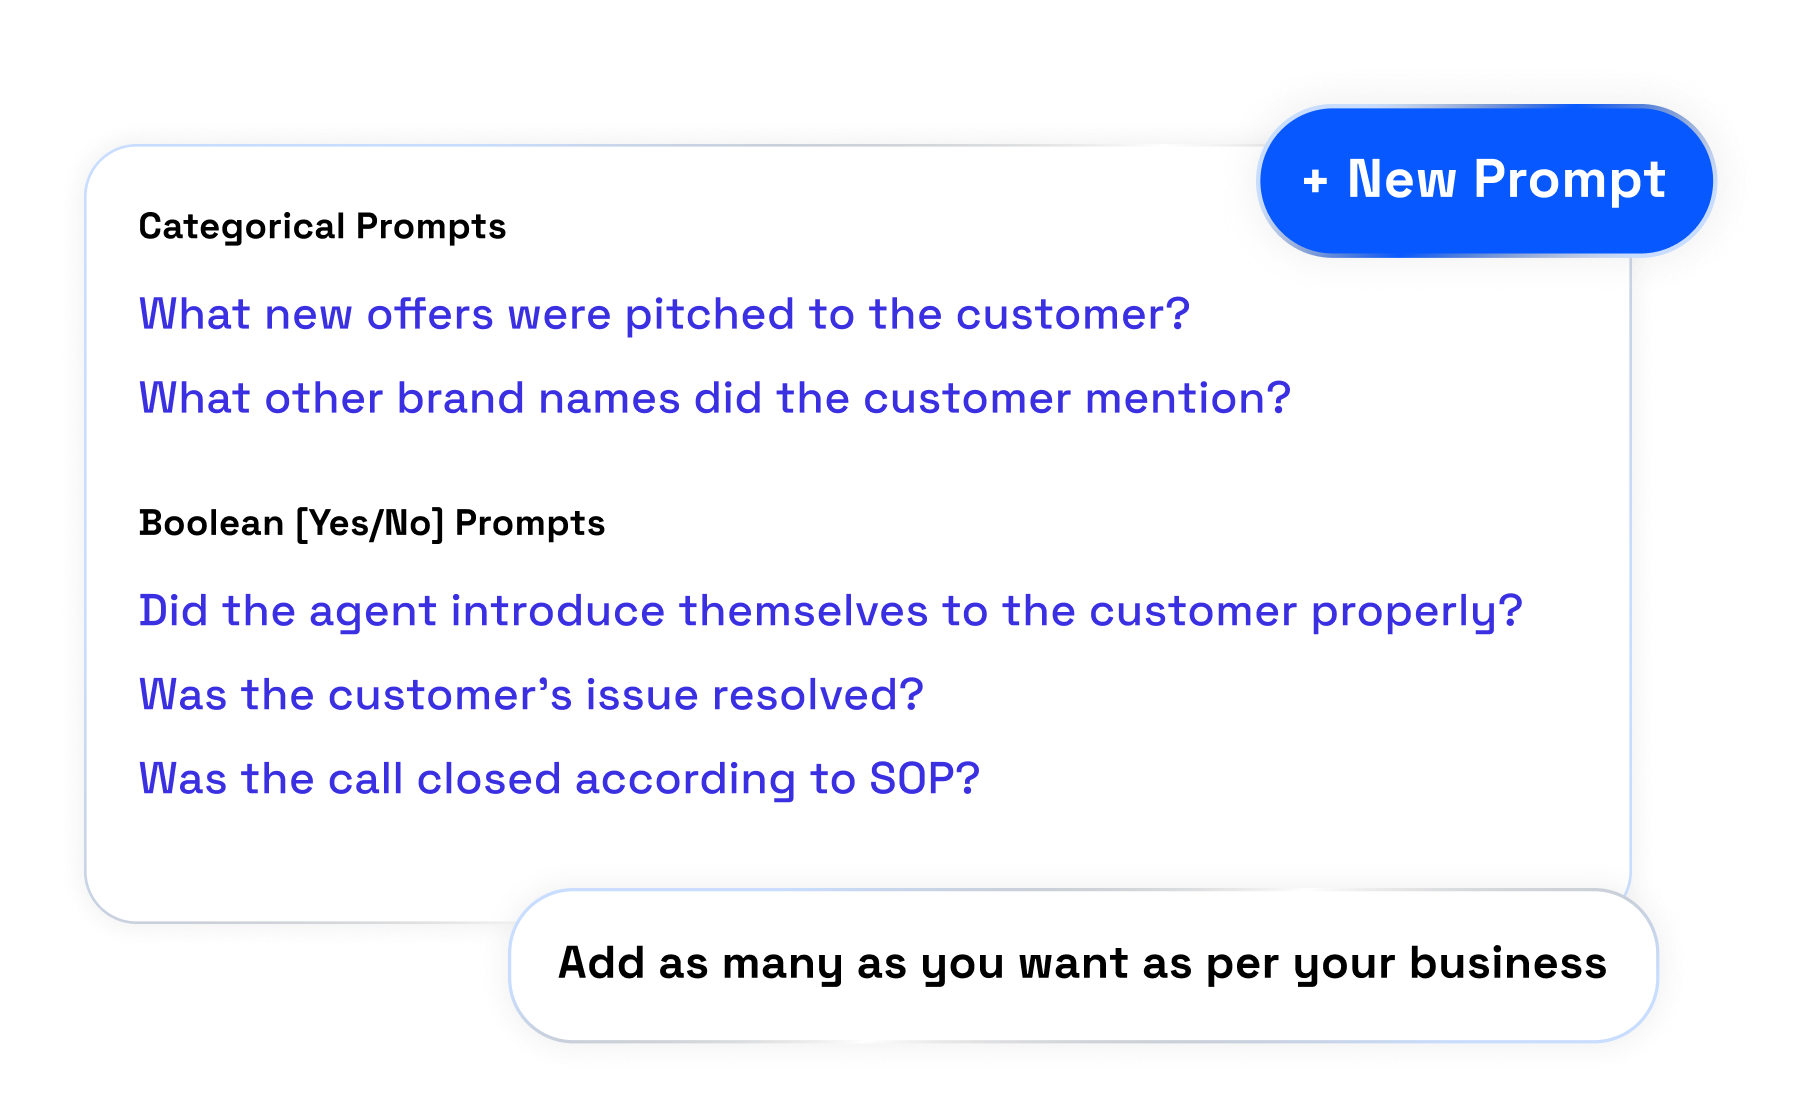
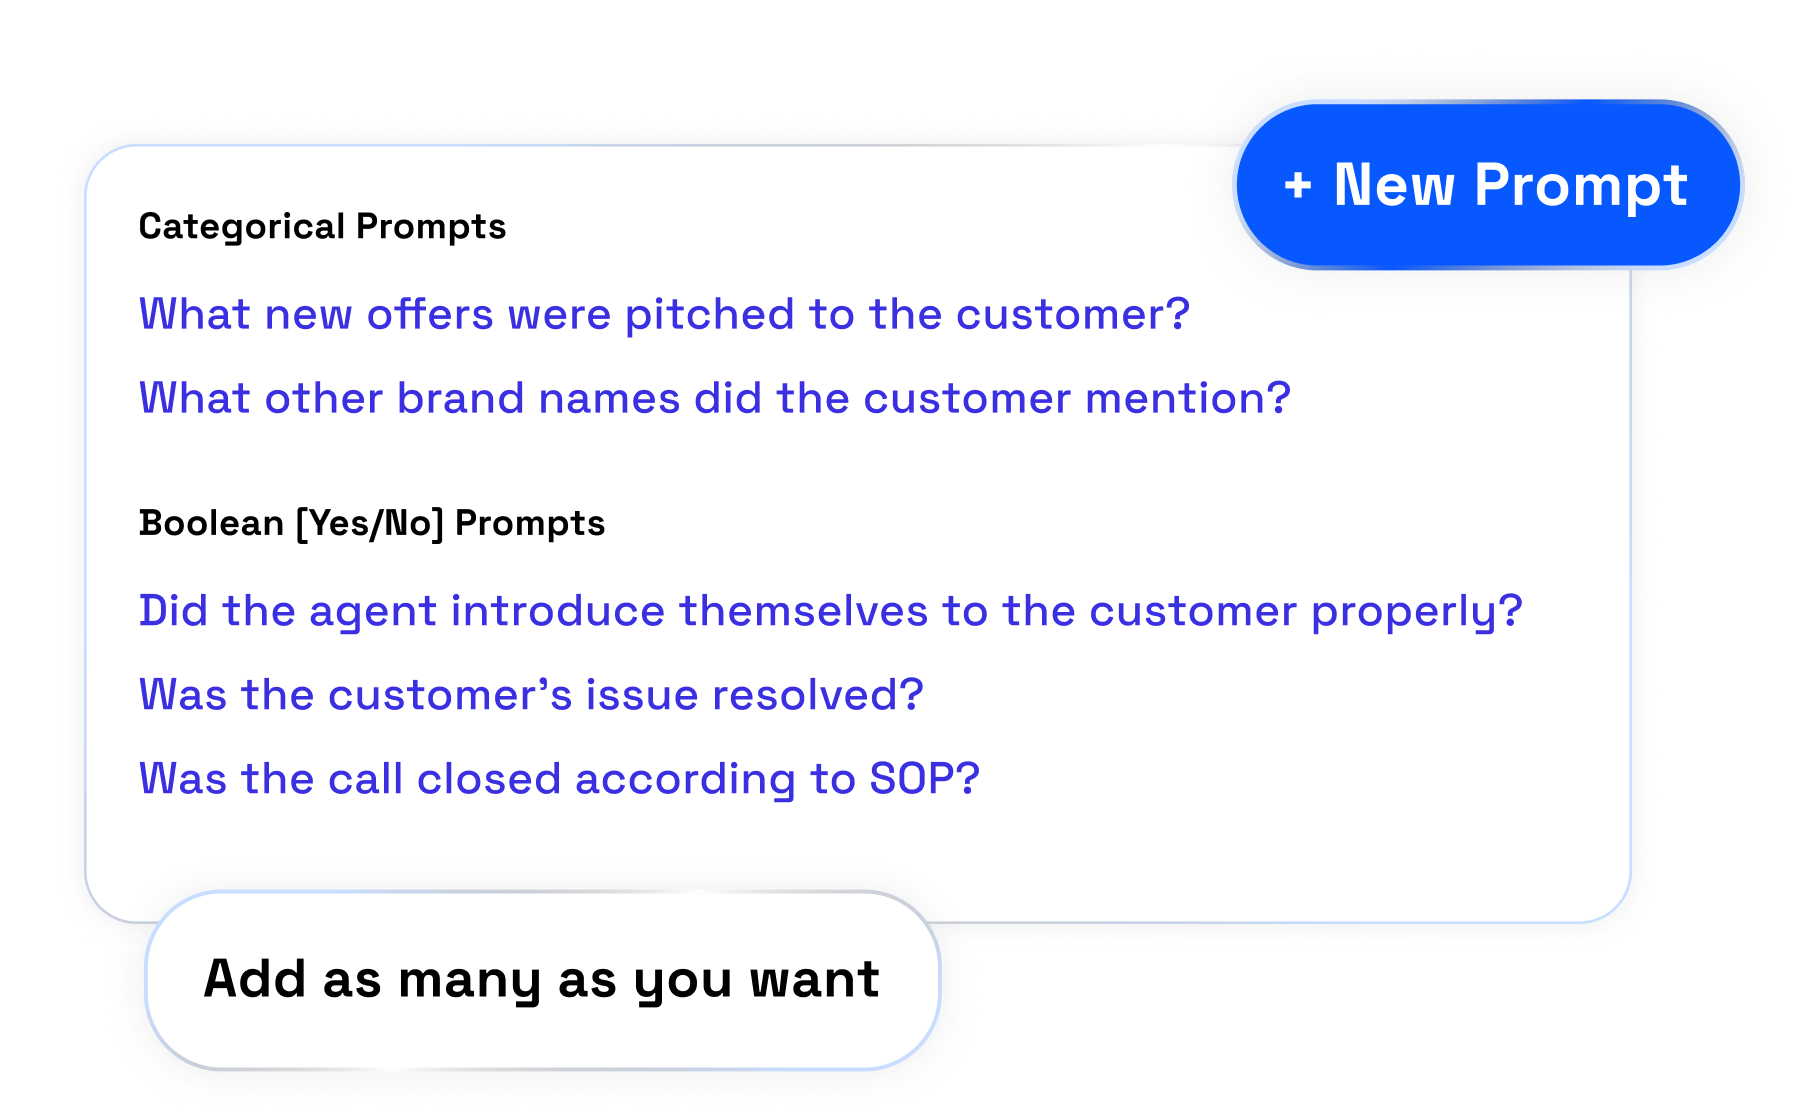
fix

diff --git a/src/components/footer/index.jsx b/src/components/footer/index.jsx
@@ -41,10 +41,12 @@ export default function Footer() {
       <div className="relative z-10 flex flex-col gap-4 py-16 max-w-4xl mx-auto items-center">
         <div className="flex flex-col items-center gap-3">
           <div className="flex-shrink-0 flex items-center  px-4">
-          <a href="/" className="flex items-center space-x-2">
-            <IconBrain size={24} />
-            <span className="text-xl font-bold">
-              xhip.AI
+          <a href="/" className="flex flex-col items-center justify-center">
+            <span className="text-[24px] font-black font-sora">
+              LISA
+            </span>
+            <span className="text-[12px] font-medium font-sans relative -top-1.5 text-gray-500 tracking-tight animate-down">
+              by Xhip AI
             </span>
           </a>
         </div>
@@ -53,20 +55,8 @@ export default function Footer() {
           </p>
         </div>
         
-        {/* <div className="flex items-center gap-6 mt-4 text-sm text-gray-600">
-          <a href="#" className="hover:text-gray-900 transition-colors">
-            Privacy
-          </a>
-          <a href="#" className="hover:text-gray-900 transition-colors">
-            Terms
-          </a>
-          <a href="#" className="hover:text-gray-900 transition-colors">
-            Contact
-          </a>
-        </div> */}
-        
         <div className="text-xs text-gray-400 mt-2">
-          © 2024 XHIP AI. All rights reserved.
+          © 2025 - Xhip AI
         </div>
       </div>
     </footer>

diff --git a/src/components/features/index.jsx b/src/components/features/index.jsx
@@ -25,11 +25,11 @@ function FeaturesSection() {
       <div className="relative z-10 flex flex-col gap-4 container mx-auto items-center border-x border-slate-300 px-0">
         <div className="grid grid-cols-1 gap-0 w-full">
           {/* Header row - full width */}
-          <div className="bg-white w-full pb-20 flex flex-col gap-2 items-center text-center border-b border-slate-300">
+          {/* <div className="bg-white w-full pb-20 flex flex-col gap-2 items-center text-center border-b border-slate-300">
             <h2 className="md:text-3xl text-lg font-[650] text-gray-590 tracking-[-1px]">
               LISA helps you improve your customer experience
             </h2>
-          </div>
+          </div> */}
 
           {/* First feature - full width with content left, graphic right */}
           <div className="bg-white w-full p-0 grid grid-cols-1 lg:grid-cols-2 gap-0 items-center text-left border-b border-slate-300">
@@ -51,12 +51,12 @@ function FeaturesSection() {
               <h3 className="text-xl md:text-3xl font-semibold mt-4 leading-tight tracking-tight">
                 Each Minute of Every Call Analyzed{" "}<br />
                 <span className="text-gray-400">
-                  Across Your Custom Parameters
+                  Across your custom parameters
                 </span>
               </h3>
               
               <p className="text-gray-600 hover:text-gray-900 transition-colors mt-5 text-md">
-                LISA analyzes every conversation instantly, identifying critical issues, missed opportunities, and compliance gaps across all languages. From tone and sentiment to script adherence and customer satisfaction indicators, we capture everything that matters to your business success.
+                LISA analyzes every conversation instantly, identifying critical issues, missed opportunities, and compliance gaps across multiple languages. From tone and sentiment to script adherence and customer satisfaction indicators, we capture everything that matters to your business success.
               </p>
 
               <div className="flex items-center gap-5 mt-5">
@@ -98,7 +98,7 @@ function FeaturesSection() {
                 <h3 className="text-xl md:text-3xl font-semibold mt-4 leading-tight tracking-tight">
                   You Choose the Defects to Track{" "}<br />
                   <span className="text-gray-400">
-                    Across Your Custom Parameters{" "}
+                    Across your custom parameters{" "}
                   </span>
                 </h3>
 
@@ -116,7 +116,7 @@ function FeaturesSection() {
                 <h3 className="text-xl md:text-3xl font-semibold mt-4 leading-tight tracking-tight">
                   Automated Training Invites{" "}<br />
                   <span className="text-gray-400">
-                    Just Set Up Once, LISA Does the Rest
+                    Set it up once, LISA does the rest
                   </span>
                 </h3>
 
@@ -148,7 +148,7 @@ function FeaturesSection() {
               <h3 className="text-xl md:text-3xl font-semibold mt-4 leading-tight tracking-tight">
                 Defects, Training, Improvements{" "}<br />
                 <span className="text-gray-400">
-                  Track Everything in One Place
+                  Track everything in one place
                 </span>
               </h3>
 
@@ -202,11 +202,11 @@ function PricingSection() {
           {/* Left side - Content */}
           <div className="flex flex-col gap-4 md:gap-6">
             <h2 className="text-3xl md:text-4xl lg:text-5xl font-semibold text-gray-900 tracking-[-1px]">
-              Everything else is free,
-              <span className="text-gray-600 block mt-1">pay only for AI usage</span>
+              Pay only for AI usage,
+              <span className="text-gray-600 block mt-1">everything else is free</span>
             </h2>
             <p className="text-base md:text-lg text-gray-600 leading-relaxed">
-              No platform fees, no hidden costs. Just transparent AI pricing that scales with your usage.
+              No platform fees, no hidden costs. Just transparent AI pricing.
             </p>
 
             <div className="space-y-3 md:space-y-4">

diff --git a/src/components/navbar/index.jsx b/src/components/navbar/index.jsx
@@ -1,5 +1,4 @@
 import { useState, useEffect } from 'react';
-import { IconBrain } from '@tabler/icons-react';
 import { ArrowTopRightIcon } from '@radix-ui/react-icons';
 
 const Navbar = () => {
@@ -36,18 +35,22 @@ const Navbar = () => {
         {/* Logo */}
         <div className="flex-shrink-0 flex items-center  px-4">
           <a href="/" className="flex items-center space-x-2">
-            <IconBrain size={24} />
-            <span className="text-xl font-bold">
-              xhip.AI
-            </span>
+            <div className="flex flex-col items-center justify-center">
+              <span className="text-[24px] font-black font-sora">
+                LISA
+              </span>
+              {scrollY <= scrollThreshold && <span className="text-[12px] font-medium font-sans relative -top-1.5 text-gray-500 tracking-tight animate-down">
+                by Xhip AI
+              </span>}
+            </div>
           </a>
         </div>
 
         {/* Right side - Login/Start button */}
         <div className="hidden md:flex items-center space-x-4 z-[51] px-1">
-          <a 
-            href="https://calendly.com/bharat-xhipment/30-min" 
-            target="_blank" 
+          <a
+            href="https://calendly.com/bharat-xhipment/30-min"
+            target="_blank"
             rel="noopener noreferrer"
             className="p-2 px-5 bg-black text-white text-sm rounded-full font-medium transition-all flex items-center gap-2"
           >

diff --git a/tailwind.config.js b/tailwind.config.js
@@ -25,6 +25,9 @@ export default {
         ],
         serif: [
           'Albert Sans'
+        ],
+        sora: [
+          'Sora'
         ]
       },
       transitionProperty: {

diff --git a/src/global.scss b/src/global.scss
@@ -1,4 +1,4 @@
-@import url('https://fonts.googleapis.com/css2?family=Albert+Sans:ital,wght@0,100..900;1,100..900&family=Space+Grotesk:wght@300..700&display=swap');
+@import url('https://fonts.googleapis.com/css2?family=Albert+Sans:ital,wght@0,100..900;1,100..900&family=Space+Grotesk:wght@300..700&family=Sora:wght@100..800&display=swap');
 
 @tailwind base;
 @tailwind components;